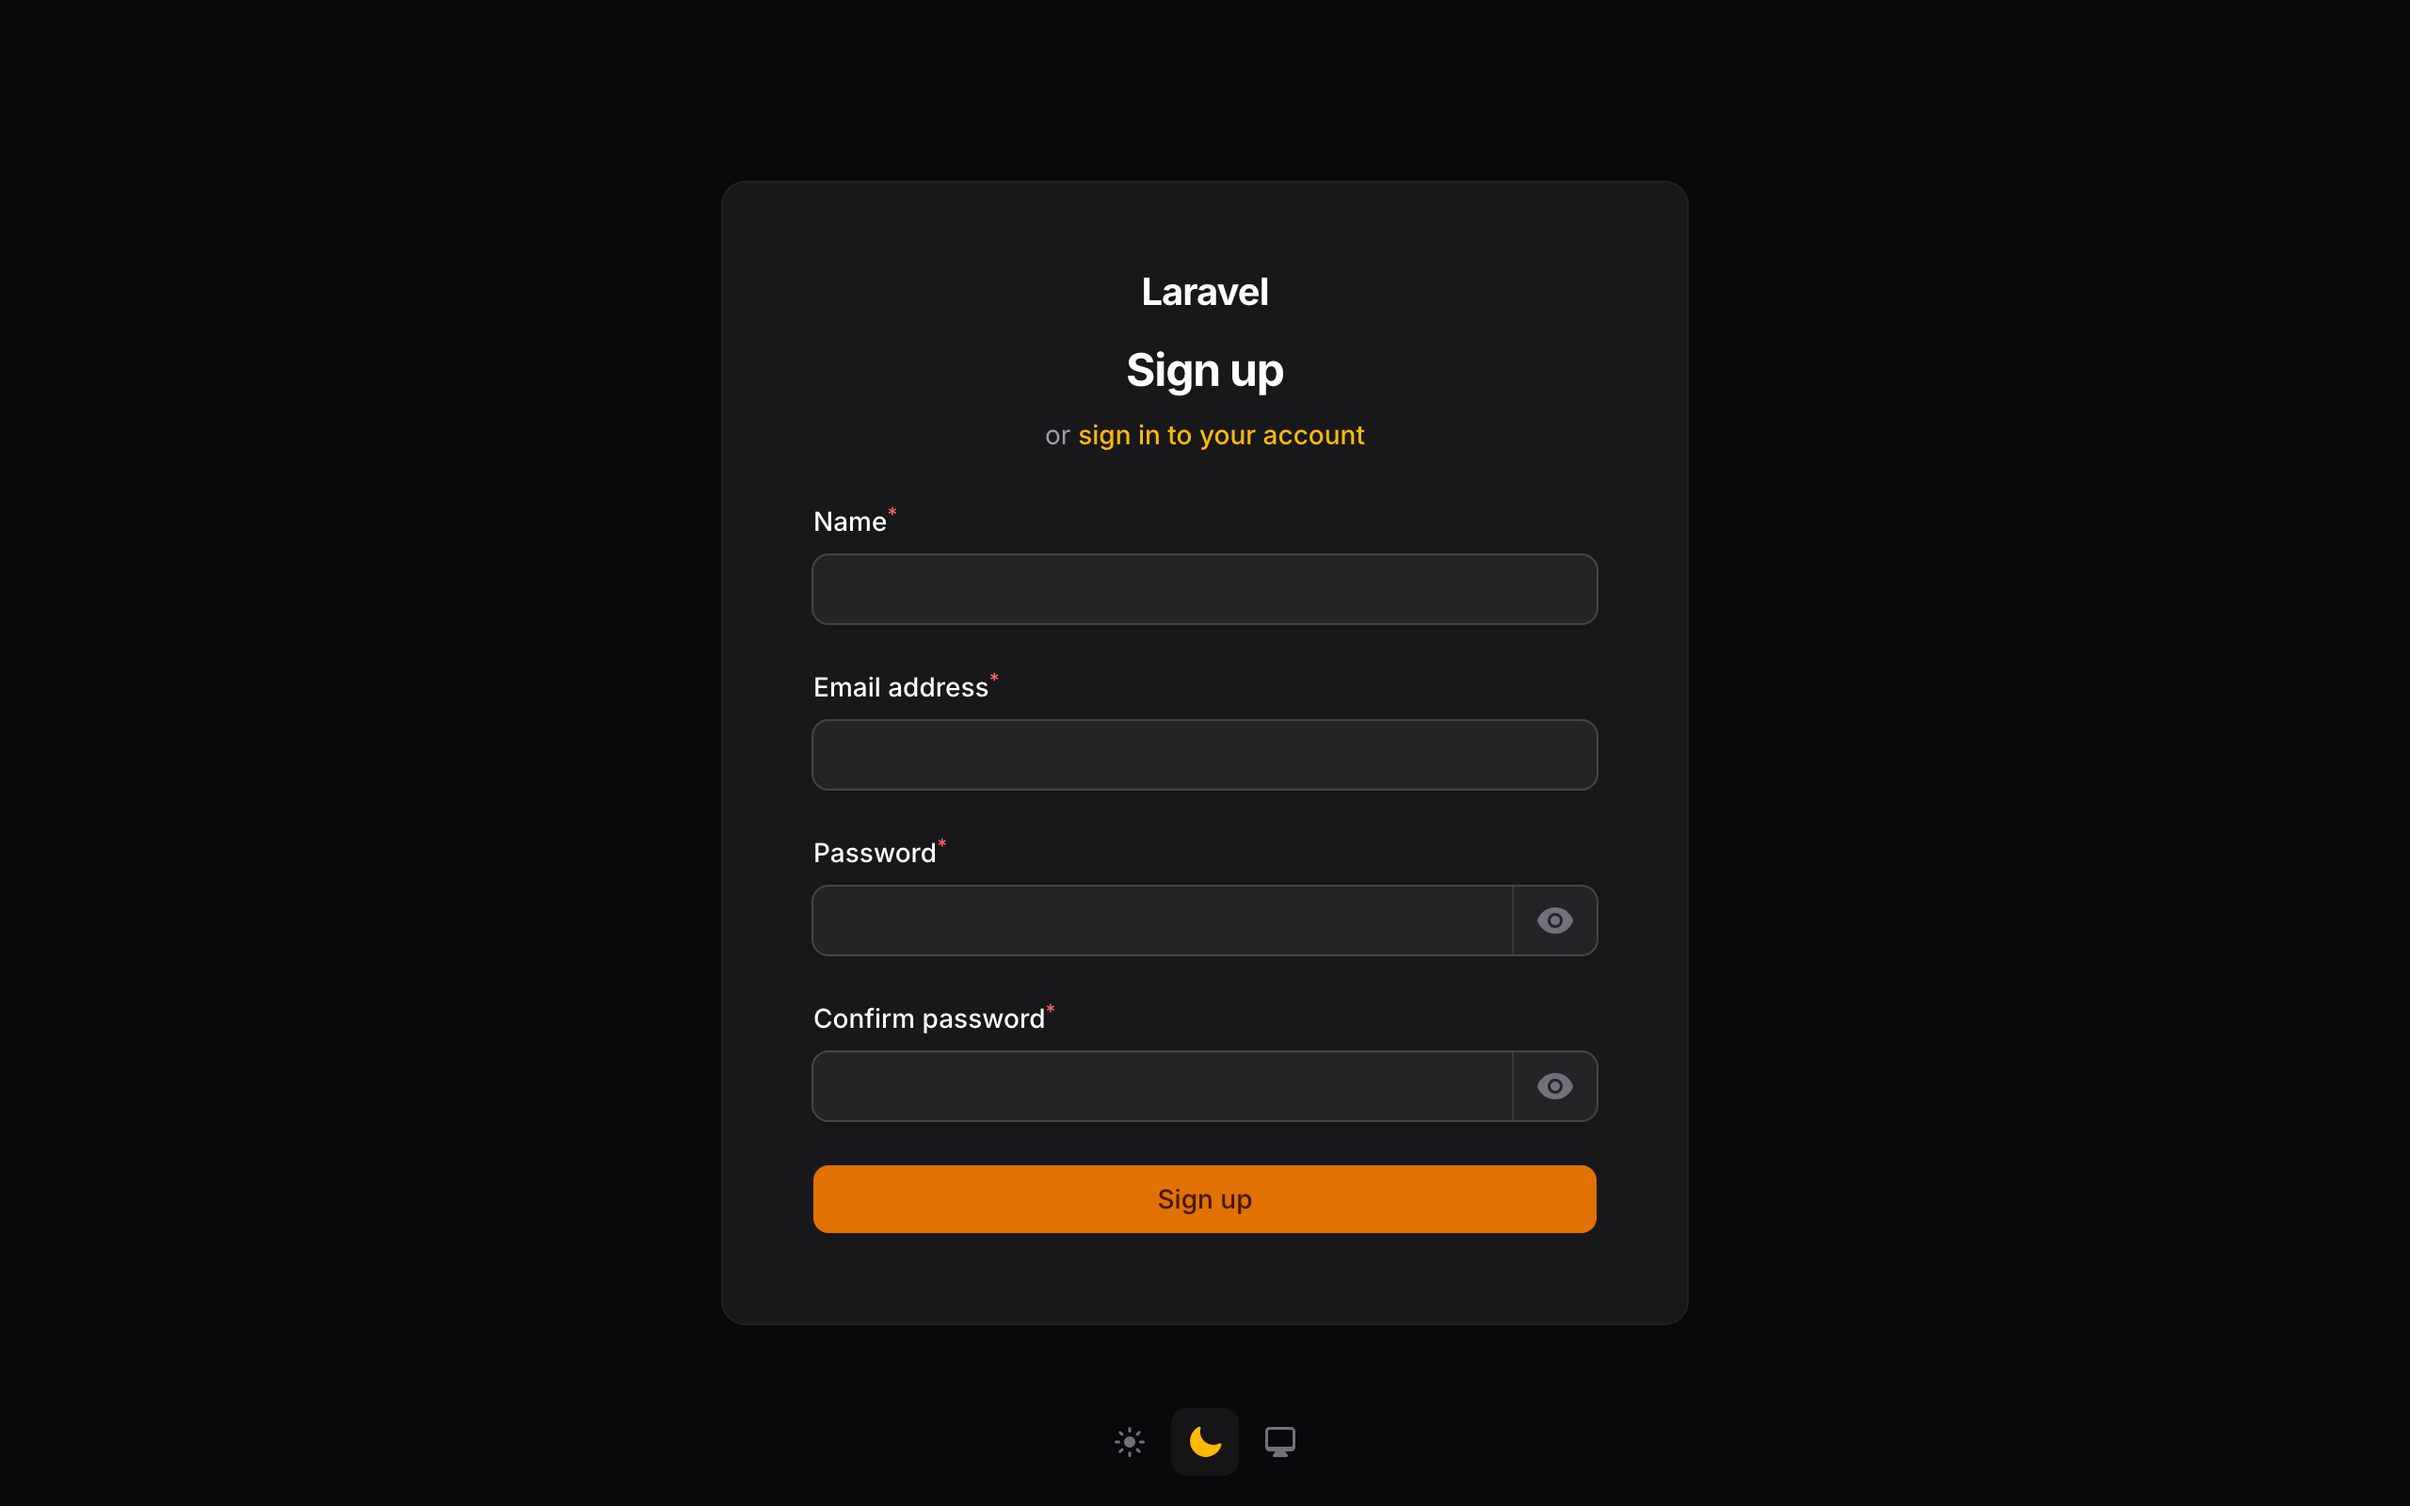
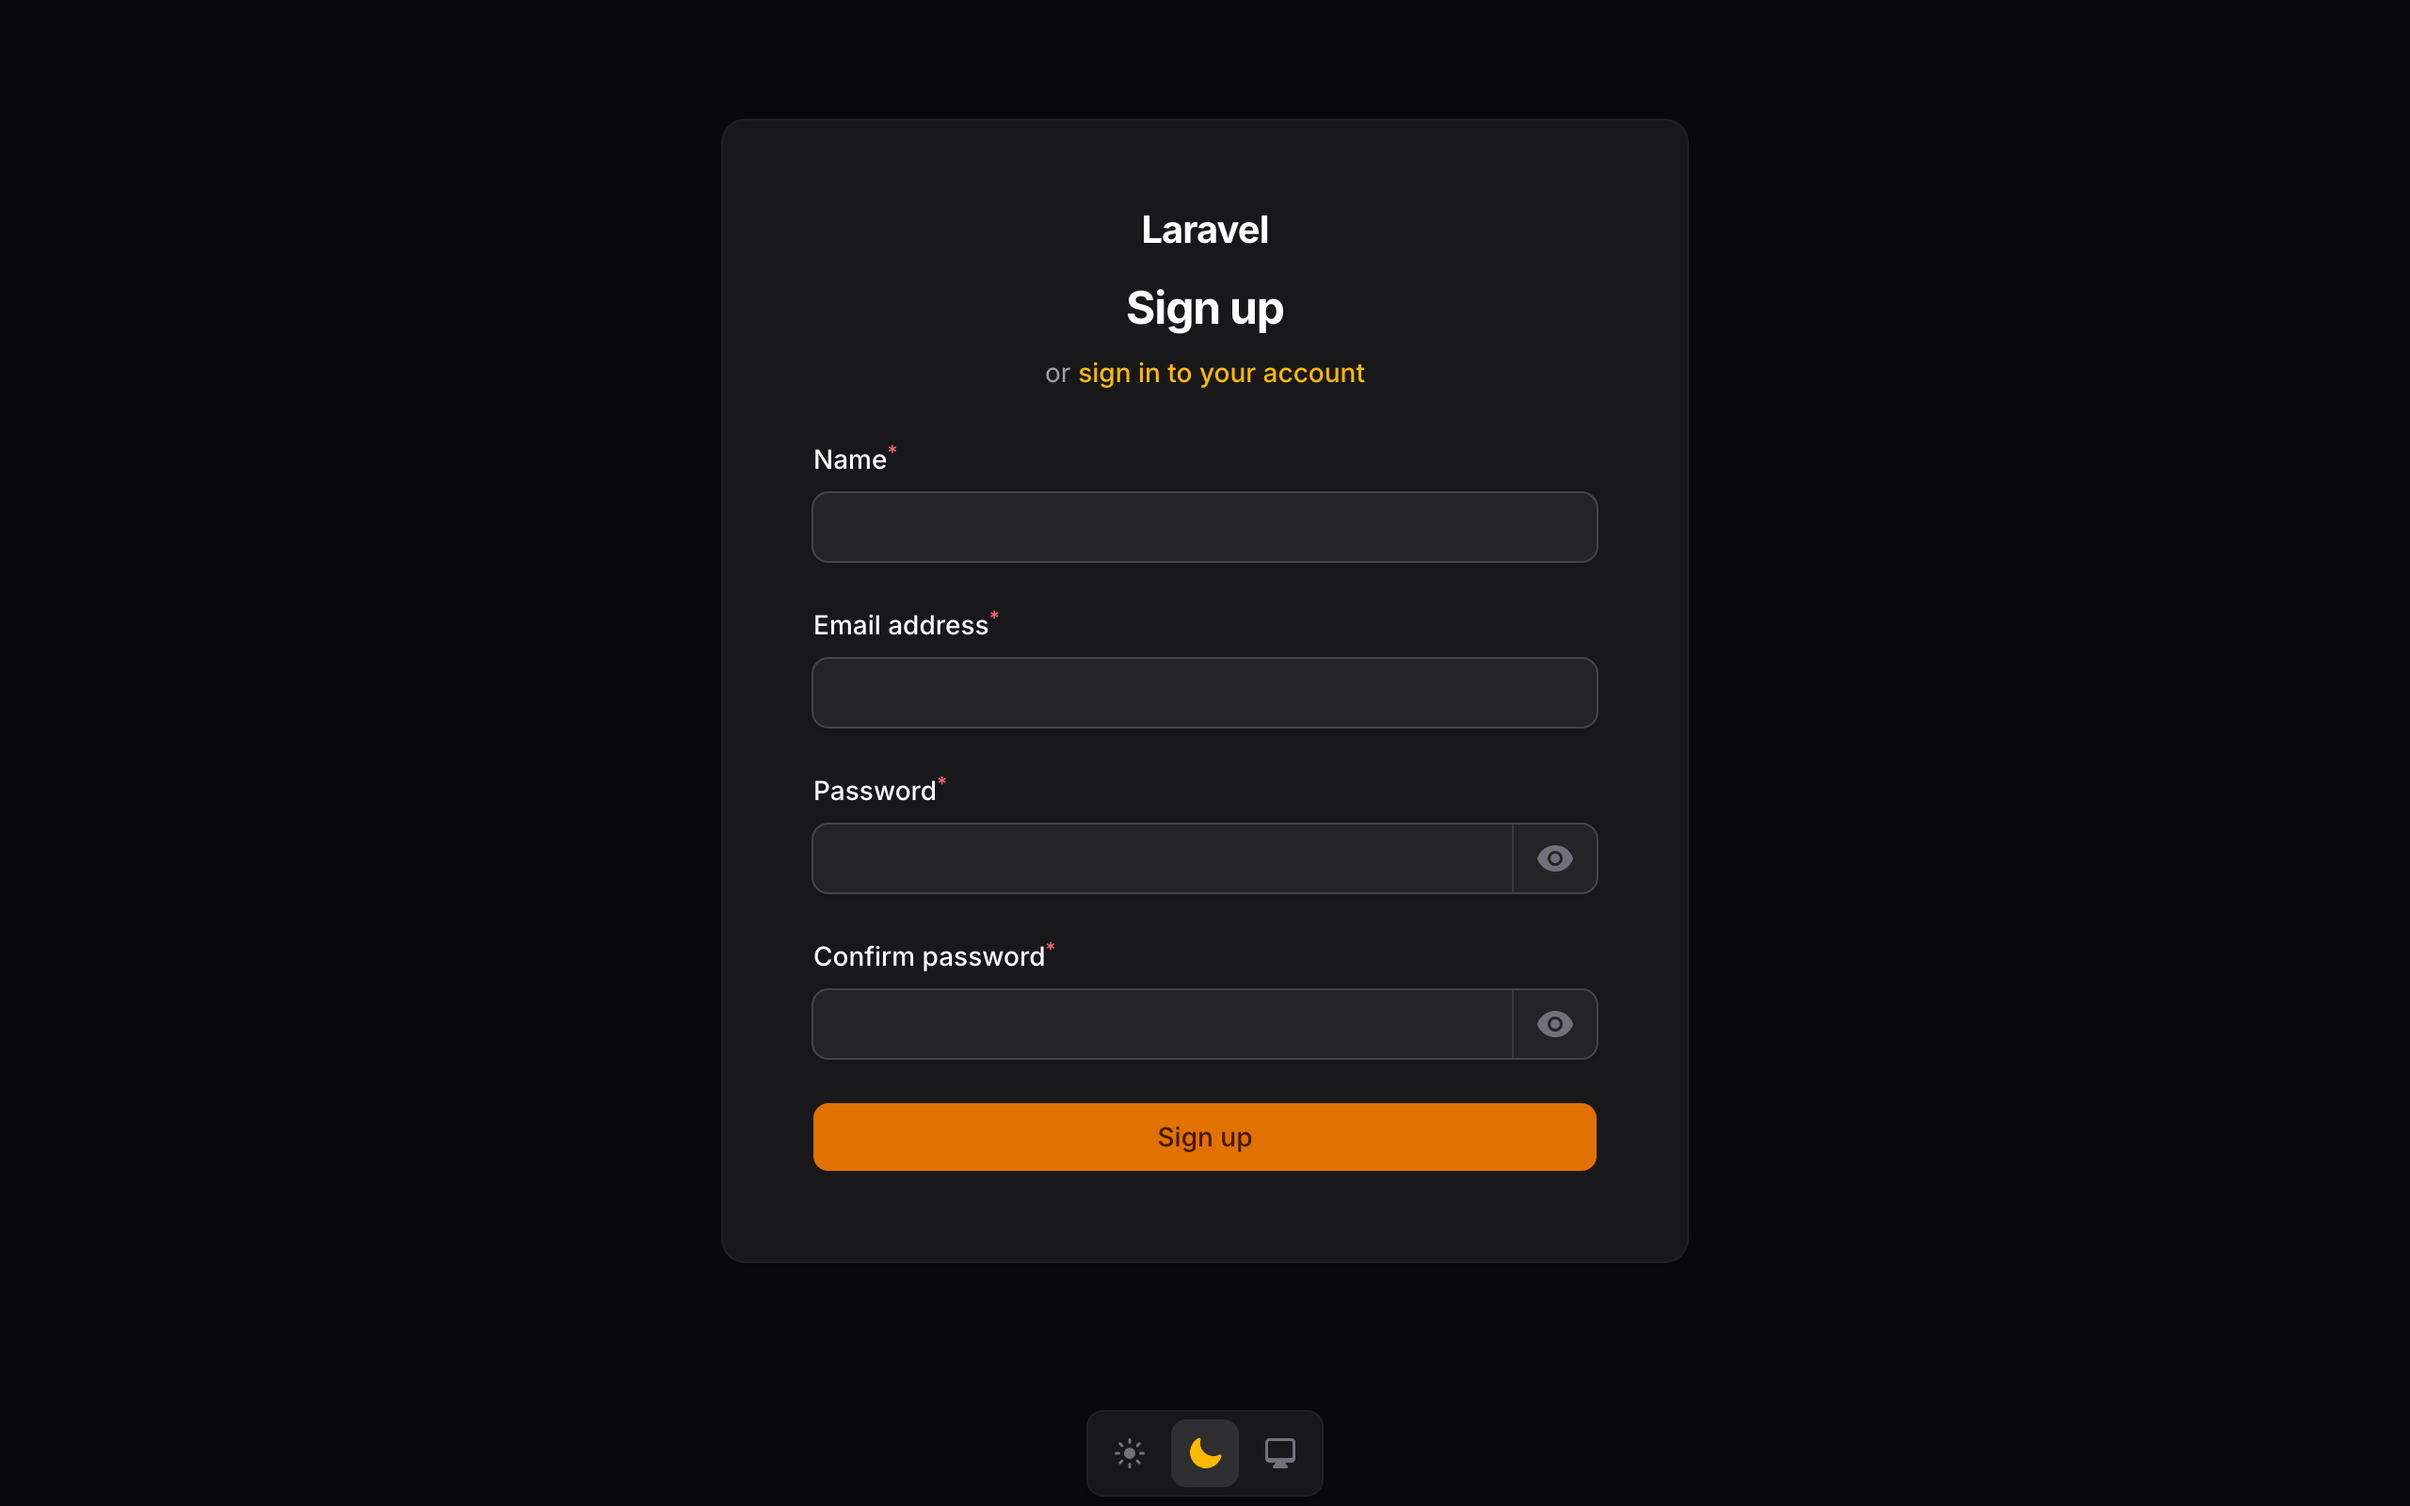
docs: describe the in-flow switcher and regenerate Focus screenshots

diff --git a/focus.php b/focus.php
@@ -32,18 +32,19 @@ return ScreenshotSuite::make()
             ->padding(16),
 
         // The Workbench's second panel moves the switcher with position(Alignment::BottomCenter). The registration
-        // form is taller than the login form, so the viewport is taller to keep the switcher clear of the card.
+        // form is taller than the login form, so the viewport is taller to keep the switcher below it in frame.
         Screenshot::make('position-bottom-center')
             ->viewportSize(1280, 800)
             ->visit('/guest/register')
             ->viewport(),
 
         // The share-image source. The two-up templates show it dark in slot 1 and light in slot 2, so it is
-        // captured in both themes. Slot 1 sits in front of the lower-left of slot 2, so the card uses the
-        // bottom-centre panel, where the switcher stays visible in both slots.
+        // captured in both themes. Slot 1 sits in front of the lower-left of slot 2, so the card uses the default
+        // top-right position, where the switcher stays visible in both slots. A bottom position would sit below
+        // the form, out of frame at this size.
         Screenshot::make('card-login')
             ->viewportSize(...$cardSlot)
-            ->visit('/guest/login')
+            ->visit('/admin/login')
             ->viewport(),
     ])
     ->cardTemplates('https://github.com/awcodes/focus-templates/tree/v2.1.0/dist')

diff --git a/docs/index.md b/docs/index.md
@@ -7,7 +7,7 @@ description: Add a light, dark, and system theme switcher to the authentication 
 
 Filament's theme switcher lives inside the panel's user menu, which is only reachable once someone has signed in. Light Switch adds one to the authentication pages, so a visitor can change the theme before they log in.
 
-The switcher is a small floating control with three options — light, dark, and system — that writes the chosen theme to the same storage Filament itself uses. A visitor's choice therefore carries straight through to the panel after they sign in.
+The switcher is a small control with three options — light, dark, and system — that writes the chosen theme to the same storage Filament itself uses. A visitor's choice therefore carries straight through to the panel after they sign in.
 
 ![A Filament login page with the Light Switch theme switcher in the top right corner, light theme selected](assets/login-light.png#gh-light-mode-only)
 ![A Filament login page with the Light Switch theme switcher in the top right corner, dark theme selected](assets/login-dark.png#gh-dark-mode-only)

diff --git a/docs/configuration.md b/docs/configuration.md
@@ -36,7 +36,10 @@ public function panel(Panel $panel): Panel
 | `Alignment::BottomCenter` | Bottom center |
 | `Alignment::BottomRight` | Bottom right |
 
-The switcher is positioned fixed against the viewport with a small inset, so it stays in place as the page scrolls.
+The switcher is part of the page layout rather than fixed over it. It sits at the top or bottom edge of the viewport when there is room. On a short screen it moves above or below the form, so it never covers a field or button.
+
+> [!NOTE]
+> The switcher renders in the layout Filament uses for its authentication pages, the simple layout. A route listed in `enabledOn()` that uses the full panel layout, such as a profile page that isn't simple, doesn't show it. Those pages already have Filament's own theme switcher in the user menu.
 
 With `Alignment::BottomCenter`, the switcher sits below the form, here on the registration page:
 
